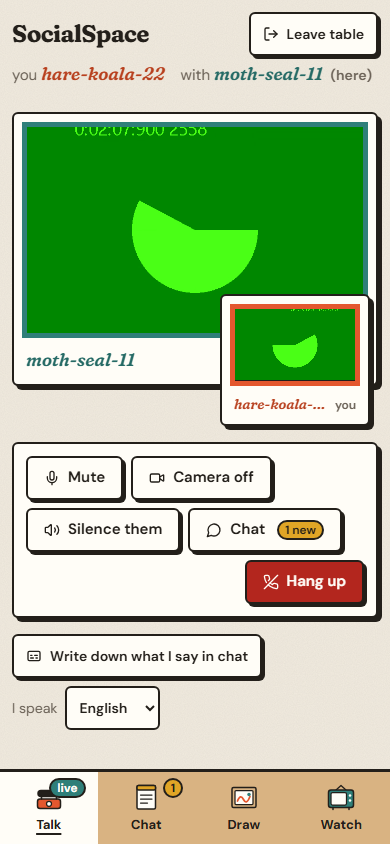
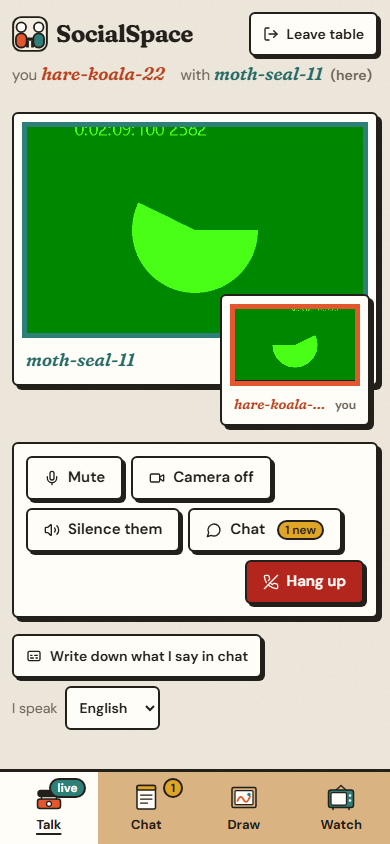
README, .env.example, refreshed screenshots and brand previews

Changed region(s): [[0.0308, 0.0, 0.4923, 0.0616]]

diff --git a/README.md b/README.md
@@ -1,81 +1,82 @@
-# SocialSpace PWA
+# SocialSpace
 
-A real-time communication Progressive Web App with voice calls, chat, media sharing, and synchronized video watching.
+A private table for two. Two people each type a name, connect, and can then talk (audio or video), chat, draw on a shared sheet and watch a video together. There are no accounts: you meet under a name you both agree on.
 
-## Features
+![Entry screen](docs/entry-desktop.png)
 
-- 📱 **PWA**: Installable on Android and iOS devices
-- 🎙 **Voice Calls**: WebRTC-based calls with real-time translation
-- 💬 **Chat**: Real-time messaging with text-to-speech
-- 🖼 **Media Sharing**: Upload and share images/videos with drawing tools
-- 🎥 **Watch Together**: Synchronized video playback
-- 📱 **Mobile Optimized**: Designed for mobile-first experience
+| Room, friend present | In a call |
+| --- | --- |
+| ![Room](docs/room-present-desktop.png) | ![Call](docs/call-desktop.png) |
 
-## Quick Deploy to Vercel
+| Drawing together | Chat on a phone |
+| --- | --- |
+| ![Draw](docs/draw-desktop.png) | ![Chat on mobile](docs/chat-mobile.png) |
 
-[![Deploy with Vercel](https://vercel.com/button)](https://vercel.com/new/clone?repository-url=https://github.com/yourusername/socialspace-pwa)
+## How the pieces connect
 
-## Environment Variables
+1. The interface is a Next.js app (React 19, Tailwind). It is static pages plus scripts and can be hosted anywhere that serves a Next.js build.
+2. When you pull up a chair, the page opens a WebSocket to a small relay (`server.js`, Node and the `ws` package) and registers your name.
+3. The relay is a switchboard. It remembers which socket belongs to which name and passes JSON messages (chat, drawing strokes, video-sync, call setup) to the friend's name. It stores nothing.
+4. Presence ("is your friend here?") is a small ping/pong message the two browsers send each other through the relay every few seconds.
+5. Audio and video do not go through the relay. The browsers swap WebRTC setup messages through it, then connect to each other directly. Only Google's public STUN servers are configured, no TURN server.
 
-Create a `.env.local` file with:
+## Run it locally
 
-\`\`\`env
-NEXT_PUBLIC_BACKEND_URL=wss://socialspace-bakend.onrender.com
-\`\`\`
+```
+npm install
+node server.js            # relay on ws://localhost:8080 (set PORT to change)
+```
 
-## Local Development
+In a second terminal, point the interface at the relay and start it:
 
-1. Clone the repository
-2. Install dependencies: `npm install`
-3. Copy `.env.example` to `.env.local` and update values
-4. Run development server: `npm run dev`
-5. For HTTPS testing: `npm run dev:https`
+```
+cp .env.example .env.local        # NEXT_PUBLIC_BACKEND_URL=ws://localhost:8080
+npm run dev                       # http://localhost:3000
+```
 
-## Deployment
+Open the page in two browser windows (or two devices), use the invite link from the first one in the second, and pull up a chair in both. Camera and microphone only work on `localhost` or over HTTPS.
 
-### Vercel (Recommended)
+`npm run dev:https` starts the dev server with Next.js's experimental local HTTPS, which you need to try the camera and microphone from a phone on your network. Next.js downloads `mkcert` and creates a local certificate authority, which may ask for your password or an administrator prompt. Then open `https://<your computer's address>:3000` on the phone and accept the certificate. This script has not been tested on this project.
 
-1. Connect your GitHub repository to Vercel
-2. Set environment variables in Vercel dashboard
-3. Deploy automatically on push to main branch
+If `NEXT_PUBLIC_BACKEND_URL` is not set, the interface falls back to the relay the author hosts (`wss://socialspace-bakend.onrender.com`). Set your own if you fork this.
 
-### Manual Deployment
+## Invite links
 
-1. Build the project: `npm run build`
-2. Deploy the `.next` folder to your hosting provider
+The first screen builds a link of the form `/?i=<friend's name>&with=<your name>`. The two values are swapped, so when your friend opens it, their name is already in the first blank and yours in the second. Names are lower-cased, spaces become dashes, only `a-z 0-9 - _` are kept, up to 32 characters.
 
-## Backend
+## Deploy
 
-This app connects to a WebSocket signaling server. The backend code is included in the repository for reference.
+**The interface.** Build with the relay address in the environment, because `NEXT_PUBLIC_` values are compiled into the page:
 
-## Browser Support
+```
+NEXT_PUBLIC_BACKEND_URL=wss://your-relay.example.com \
+NEXT_PUBLIC_SITE_URL=https://your-site.example.com \
+npm run build && npm start
+```
 
-- Chrome/Edge 88+
-- Firefox 85+
-- Safari 14+
-- Mobile browsers with WebRTC support
+On a hosting service that builds Next.js for you, set the same two variables in its settings. `NEXT_PUBLIC_SITE_URL` is only used for the link-preview image. A site served over `https` needs a `wss://` relay.
 
-## PWA Installation
+**The relay.** Any host that runs Node and allows WebSockets will do. It needs only the `ws` package: `npm install --omit=dev` and `node server.js`, listening on `PORT` (default 8080). Put it behind TLS so it is reachable as `wss://`.
 
-Users can install the app by:
-- **Android**: Tap "Add to Home Screen" in browser menu
-- **iOS**: Tap Share button → "Add to Home Screen"
-- **Desktop**: Click install prompt in address bar
+## Files worth knowing
 
-## Technical Stack
-
-- **Frontend**: Next.js 15, React 19, TypeScript
-- **Styling**: Tailwind CSS, shadcn/ui
-- **Real-time**: WebSocket, WebRTC
-- **PWA**: Service Worker, Web App Manifest
-- **Mobile**: Touch-optimized, responsive design
+- `components/room.tsx`, `entry-screen.tsx`, `call-panel.tsx`, `chat-panel.tsx`, `draw-activity.tsx`, `watch-activity.tsx`: the screens.
+- `components/websocket-provider.tsx`, `presence-provider.tsx`, `call-provider.tsx`: relay connection, who is here, and WebRTC.
+- `server.js`: the relay.
+- `public/sw.js`: service worker (pages are network-first, build files are cached).
+- `scripts/brand/make_brand.py`: regenerates the icons and share image from one SVG mark (needs Chrome and Pillow).
 
 ## Limitations
 
-- Streaming platforms (Netflix, YouTube) have CORS/DRM restrictions
-- Voice translation requires modern browser with Web Speech API
-- WebRTC requires HTTPS in production
+- No accounts or authentication. Anyone can register any name, including one in use, and the relay will hand it to the newest connection. Treat names as meeting places, not identities.
+- The relay tells every connected client when any name disconnects, and forwards anything addressed to a name. Do not rely on it for privacy beyond that.
+- No TURN server, so calls can fail between restrictive networks (some corporate or mobile networks).
+- Free hosting often puts the relay to sleep, so the first connection can take up to a minute. The page shows "Connecting to the server" while it waits.
+- Direct video files (.mp4, .webm, .ogg) stay in sync. YouTube, Twitch, Vimeo and Dailymotion links open for both people, but each controls their own player.
+- There is no ringtone, only the on-screen banner.
+- Translation uses unofficial Google Translate web endpoints without a key, so chat text you translate is sent to Google, and the service may stop working or be blocked by the browser. A small built-in phrase list is the fallback.
+- Drawing strokes and chat are not stored anywhere; they exist only while both people are connected.
 
-## License
+## Licence
 
-MIT License
+No licence file is included because the owner has not chosen one. Until one is added, the default is that all rights are reserved.
